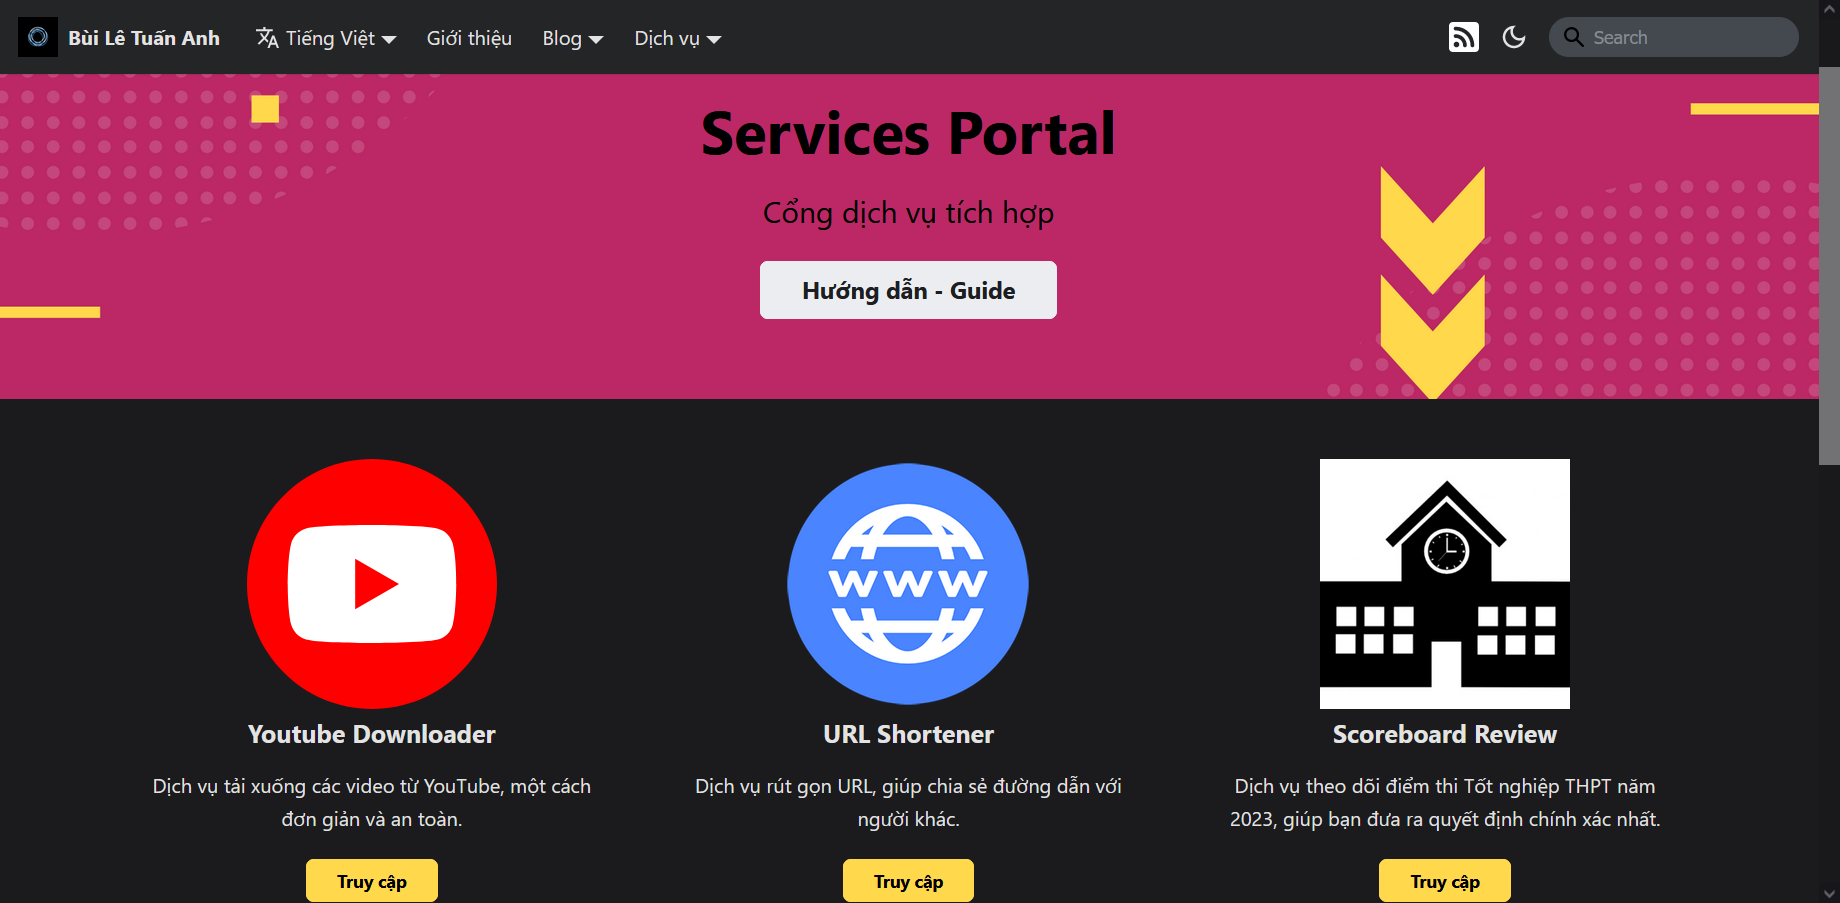
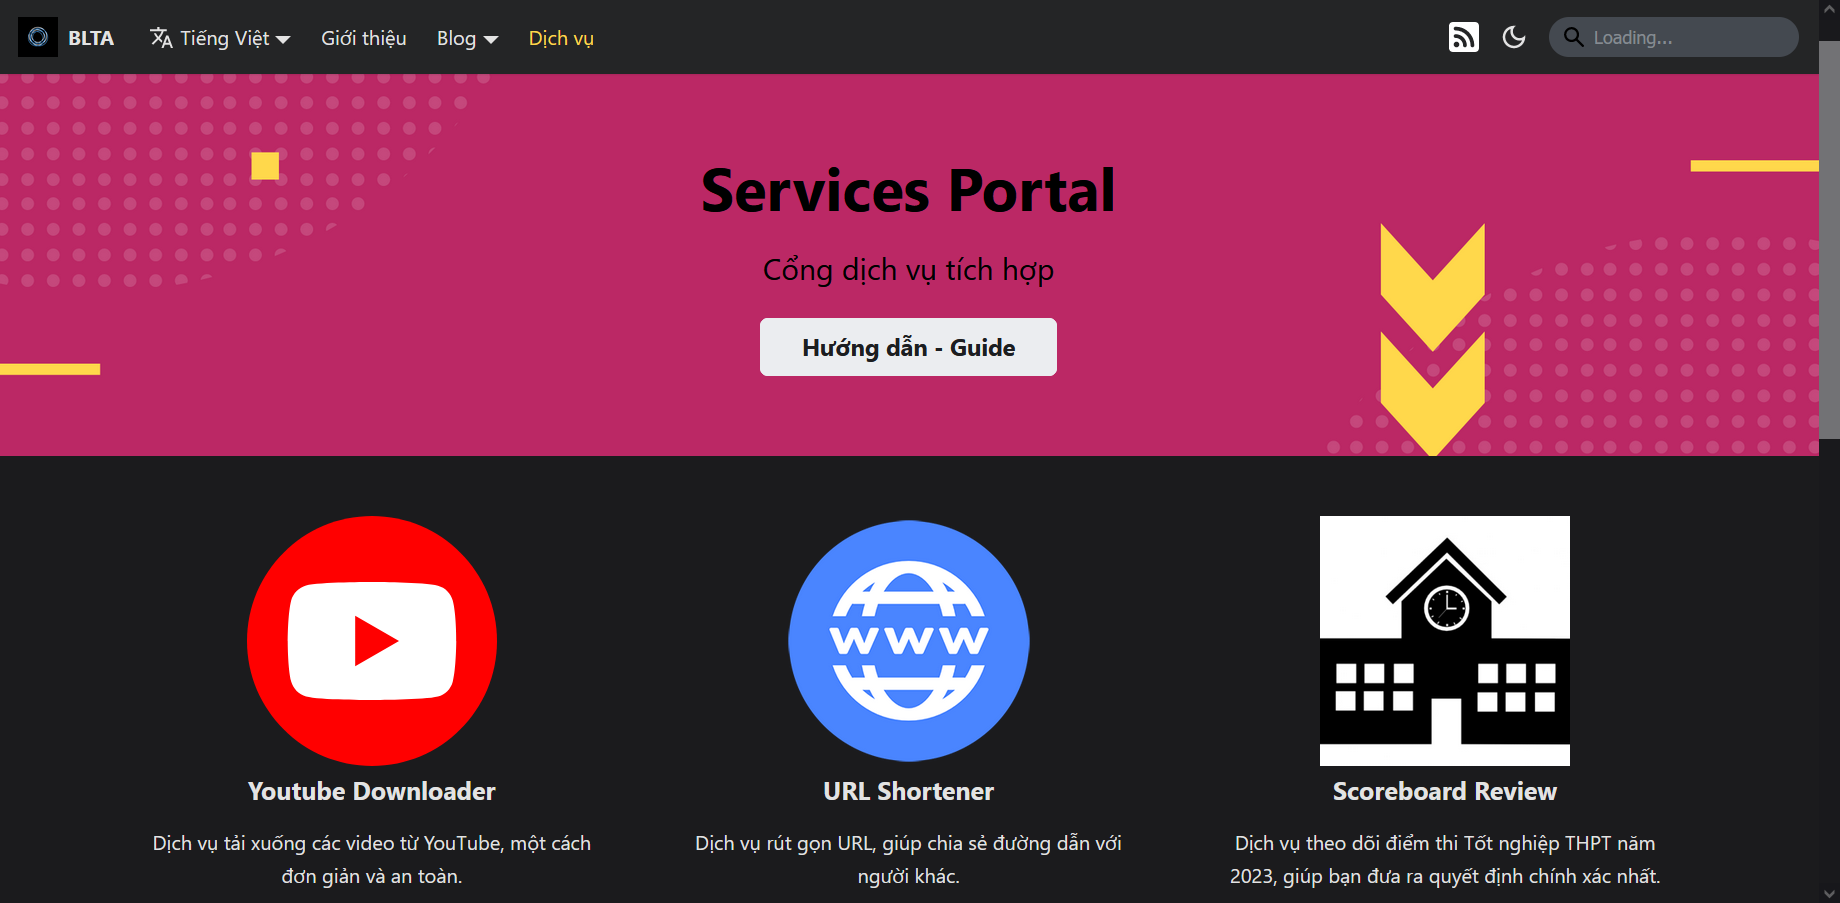
231231 - BLTAnh - Change to Status

diff --git a/client/docusaurus.config.ts b/client/docusaurus.config.ts
@@ -144,20 +144,10 @@ const config: Config = {
         {
           label: "Dịch vụ",
           position: "left",
-          type: "dropdown",
-          items: [
-            {
-              label: "Cổng dịch vụ",
-              to: "/services",
-            },
-            {
-              label: "Cổng trạng thái",
-              href: "https://status.builetuananh.name.vn/",
-            },
-          ],
+          to: "/services",
         },
         {
-          href: "https://portal.builetuananh.name.vn/blog/atom.xml",
+          href: "https://www.builetuananh.name.vn/blog/atom.xml",
           position: "right",
           className: "header-rss-link", // custom logo in custom.css
           "aria-label": "RSS",
@@ -167,7 +157,7 @@ const config: Config = {
     announcementBar: {
       id: "announcement-bar",
       content:
-        "⭐ <b>Thông báo</b>: Phiên bản mới vận hành từ 01/12/2023 (A new version will be available from Dec 1st, 2023). ⭐",
+        "⭐ <b>Thông báo</b>: Phiên bản mới vận hành từ 01/12/2023 (A new version is available from Dec 1st, 2023). ⭐",
       backgroundColor: "#a4e4dc",
       textColor: "#222",
       // backgroundColor: "#222",
@@ -196,10 +186,6 @@ const config: Config = {
             {
               label: "Cổng dịch vụ",
               to: "/services",
-            },
-            {
-              label: "Cổng trạng thái",
-              href: "https://status.builetuananh.name.vn/",
             },
           ],
         },

diff --git a/client/src/components/Services/ServicesFeatures.tsx b/client/src/components/Services/ServicesFeatures.tsx
@@ -67,14 +67,14 @@ const FeatureList: FeatureItem[] = [
         link: "/services/gallery"
     },
     {
-        title: "2048 Game",
-        image: "img/english/2048_logo.svg",
+        title: "Status Coverage",
+        image: "img/english/status.png",
         description: (
             <Translate id='services.feature6.desc'>
-                Dịch vụ chơi game 2048 trực tuyến, giúp bạn giải trí sau giờ làm việc, học tập.
+                Dịch vụ cập nhật trạng thái trực tiếp các trang web thường xuyên truy cập.
             </Translate>
         ),
-        link: "https://2048.builetuananh.name.vn/"
+        link: "https://status.builetuananh.name.vn/"
     }
 ]
 

diff --git a/client/blog/SpringStories/2024/01-01-SpringStories-2024/partials/docs/_no1.md b/client/blog/SpringStories/2024/01-01-SpringStories-2024/partials/docs/_no1.md
@@ -1,0 +1,45 @@
+## Kỳ 1: Recap 2023 - Điều nhỏ bé kỳ diệu ⏪
+
+Cuối cùng thì ngày này lại tới, một lần nữa. Hôm nay, ngày 31/12/2023, có nhiều thời gian hơn mọi ngày, tôi quyết định mở lại những tấm hình đẹp nhất và chiêm nghiệm lại một năm 2023 đầy thăng trầm của chính mình.
+
+### 4 năm, trôi qua như làn gió nhẹ của thời thanh xuân...
+
+Chắc hẳn, mọi người còn nhớ đến những giây phút mà ở đó, mình đã đưa chiếc check Tốt nghiệp đúng hạn vào trong wishlist của năm 2023. Ừ thì, **_mình đã làm được rồi_**. Chỉ tiếc là kết quả lại không thể như ý muốn của bản thân mình. Ước mơ được một lần chơi với Thách thức cũng đã lỡ hẹn... Dẫu sao đó cũng là một chuyến hành trình bất tận, với đủ những gia vị thú vị để làm nên một "**_thời thanh niên sôi nổi_**" của bản thân mình:
+
+- **Nhận một chiếc học bổng đầy ý nghĩa từ Khoa, và được trao tặng trực tiếp trong Lễ tuyên dương của Khoa** 💯.
+- **Tham gia vào loạt sự kiện cấp Đoàn - Hội, với rất nhiều những người bạn, những người đồng đội tuyệt vời** ❤.
+- **4⃣/8⃣ kỳ liên tục có điểm rèn luyện loại Xuất sắc và 3⃣/8⃣ kỳ đạt loại Giỏi, 2⃣/8⃣ kỳ liên tục có điểm học tập loại Xuất sắc. Khổ luyện bấy nhiêu năm, cũng có chút thành quả để khoe với mọi người** 😂.
+
+### Câu chuyện từ những chuyến đi...
+
+Năm qua là một năm với quá nhiều những biến động. Từ câu chuyện mất đi người bà yêu quý của mình (**_dẫn đến việc không có chỗ dựa từ ông bà_**), cho đến những chấn thương, những căn bệnh hành hạ bản thân mình từ ngày này qua tháng nọ, việc được sống và được đi thực tập, thử việc tới **_hai nơi trong cùng một năm_** này đã là một kì tích. Dẫu rằng mọi việc có thể không hoàn hảo và đi đến đích cuối cùng, nhưng ít nhất nó vẫn mang lại nhiều những trải nghiệm thú vị trên con đường mà mình đã chọn.
+
+### IELTS và câu chuyện về một chiếc check kéo dài...
+
+Cuối cùng thì kỳ thi IELTS cũng được tổ chức lại trực tiếp, và tất nhiên mình cũng mất **_gần một năm_** để chuẩn bị cho lần thi lại này. Thực ra sẽ là lời nói dối nếu tiết lộ rằng, **_số điểm của lần này làm hài lòng bản thân mình_**, nhưng ít ra, trên từng những kỹ năng mà mình tích lũy, cuối cùng nó cũng có những sự **_cải thiện rõ nét_** mà mình mong đợi. Tất nhiên, chặng đường IELTS vẫn sẽ tiếp tục trong hai năm tới, còn bây giờ vẫn là **_ôn luyện cho vững tâm_** đã 🤣.
+
+### Những chuyến du lịch đầy ý nghĩa...
+
+Thực ra, đất nước Việt Nam 🇻🇳 mình có rất nhiều những điểm đến thật đẹp, cũng như những nơi mà mình chưa từng khám phá. Ngay cả mình - một người con Tây Ninh chính hiệu, cũng chưa từng lên đỉnh **_núi Bà Đen_** cao nhất Đông Nam Bộ lần nào, **_cho đến ngày lễ Quốc khánh_**...
+
+Cả gia đình cùng nhau đi cáp treo lên đỉnh núi chơi, chắc cũng lâu lắm rồi mới có dịp được đi chơi cùng nhau như thế này. Và thật sự khi đến nơi, tất cả đều **choáng ngợp** trước vẻ đẹp của nơi mình sinh ra và lớn lên, nó quá đẹp mà rất khó để có thể dùng bất kỳ mĩ từ nào để miêu tả về nó. Năm nay sẽ lại là một năm mà du lịch tỉnh nhà sẽ lại được ưu tiên, và **_Tây Ninh - Hành trình rạng rỡ_** là chương trình khởi đầu cho sự phát triển đó...
+
+## Wishlist
+
+Để mà nói về năm 2024, chắc wishlist sẽ như thế này:
+
+✅ Tìm kiếm một công việc theo dạng Hybrid hoặc Remote toàn thời gian. Nếu không được, chắc chuyển sang Full-time nhưng ở quê nhà cho vui 😂.
+
+✅ Đi du lịch thêm nhiều điểm nữa (đặc biệt là ra nước ngoài). Đã gần 6 năm kể từ chuyến đi nước ngoài đầu tiên, đây chắc hẳn là mong muốn lớn nhất của mình.
+
+✅ Kiếm được nhiều tiền, và có thể triển khai một dự án gì đó. Thực ra thì cũng chưa biết là dự án gì, nhưng ít ra là có liên quan đến Công nghệ thông tin và Tiếng Anh - hai đối trọng mà mình cùng lúc theo đuổi.
+
+✅ Có thể đạt được một số chứng chỉ nào đó, như là AWS, Azure. À thì cái này cũng là mong ước của mình khi theo đuổi Công nghệ thông tin, theo kiểu năm chẵn thi AWS, năm lẻ thi IELTS chẳng hạn để có thể tối ưu được thời gian và lượng kiến thức cần ôn luyện.
+
+## Tổng kết
+
+Hết phần recap. Một lần nữa, chân thành cảm ơn tất cả mọi người đã giúp đỡ để tôi có thể vượt qua năm 2⃣0⃣2⃣3⃣ đầy chông gai thử thách nhưng cũng nhiều "**_điều nhỏ bé kỳ diệu_**" này. Hy vọng năm 2⃣0⃣2⃣4⃣, tất cả chúng ta sẽ có nhiều sức khỏe và thành công. Mọi thứ đã trở lại bình thường, và tất cả sẽ không ngừng phát triển hơn nữa.
+
+🏡 2⃣0⃣2⃣3⃣, một năm đầy cảm xúc đã kết thúc. Chúng ta chia tay nhau từ đây. Chào từ biệt 2⃣0⃣2⃣3⃣, và xin chào 2⃣0⃣2⃣4⃣.
+
+🌸 Câu chuyện mùa xuân 2⃣0⃣2⃣3⃣/2⃣4⃣ 🌼 - Kỳ 2⃣ sẽ lên sóng trong vài ngày nữa. Goodbye mọi người, tôi đi làm lại web tiếp đây 😂

diff --git a/client/docs/guide/status.md b/client/docs/guide/status.md
@@ -1,0 +1,47 @@
+---
+id: status
+title: Status Coverage
+slug: /guide/status
+sidebar_position: 6
+---
+
+## Giới thiệu
+
+Dịch vụ Status Coverage là một trang web tổng hợp và theo dõi trạng thái của các trang khác nhau. Trang web này được xây dựng dựa trên nền tảng [**Upptime**](https://upptime.js.org).
+
+## Hướng dẫn truy cập
+
+Để sử dụng dịch vụ, có các cách sau:
+
+1. Truy cập vào đường dẫn [**này**](https://status.builetuananh.name.vn/)
+2. Từ thanh điều hướng, chọn **Dịch vụ**
+3. Từ phần chân trang, mục **Trang chủ** chọn **Cổng dịch vụ**
+
+Chọn dịch vụ **Status Coverage**, nhấn nút **Truy cập**. Hệ thống sẽ tự chuyển hướng đến trang của dịch vụ như hình dưới.
+
+![Status Coverage](../../public/img/services/status.png)
+
+:::note LƯU Ý
+
+Giao diện ứng dụng sử dụng ngôn ngữ **tiếng Việt**.
+
+:::
+
+## Hướng dẫn theo dõi
+
+### Trạng thái hiện tại
+
+Mục này sẽ hiển thị trạng thái hiện tại của các trang web được theo dõi. Mục này cung cấp hai thông tin quan trọng là tỷ lệ phản hồi thành công (**mã trạng thái 200**) tính theo **phần trăm** và thời gian phản hồi trung bình tính theo mili giây. Trạng thái này được cập nhật liên tục, và có thể thống kê trong thời gian **24 giờ, 7 ngày, 30 ngày, 365 ngày** và cả **toàn bộ thời gian** giám sát.
+
+### Thông tin chi tiết
+
+Khi chọn vào từng trang web, sẽ hiển thị các thông tin chi tiết tương ứng, bao gồm:
+
+- Tỷ lệ phản hồi thành công (**mã trạng thái 200**) tính theo phần trăm
+- Thời gian phản hồi **trung bình** tính theo mili giây
+- Thời gian phản hồi **trong 7 ngày gần nhất**
+- Loạt **sự cố xảy ra** với trang web đó
+
+### Sự cố
+
+Đối với các sự cố đang xảy ra, hệ thống sẽ cập nhật những thông tin **mới nhất lên hệ thống**. Đối với các sự cố đã xảy ra, hệ thống sẽ lưu lại và hiển thị lên trang web ở **phía dưới mục Trạng thái hiện tại**.

diff --git a/client/i18n/en/docusaurus-plugin-content-docs/current/guide/status.md b/client/i18n/en/docusaurus-plugin-content-docs/current/guide/status.md
@@ -1,0 +1,47 @@
+---
+id: status
+title: Status Coverage
+slug: /guide/status
+sidebar_position: 6
+---
+
+## Introduction
+
+The Status Coverage service is a website that aggregates and monitors the status of different websites. This website is built on the [**Upptime**](https://upptime.js.org) platform.
+
+## Guide to access
+
+To use the service, there are the following ways:
+
+1. Access from [**this link**](https://status.builetuananh.name.vn/)
+2. From the **Navigation bar** on the top of this page, select **Services**
+3. From the **Footer** at the end of this page, in the **Homepage** section select **Services Portal**
+
+Select the **Status Coverage** service, then click on **Access**. The website will automatically be redirected to the service page as shown below.
+
+![Status Coverage](../../../../../public/img/services/status.png)
+
+:::note
+
+The application interface uses **Vietnamese** as the official language.
+
+:::
+
+## How to use
+
+### Current status
+
+This section will display the current status of the monitored websites. This section provides two important information: the success response rate (**status code 200**) in **percentage** and the average response time in **milliseconds**. This status is updated continuously, and can be aggregated over **24 hours, 7 days, 30 days, 365 days** and **All time**.
+
+### Detailed information
+
+When selecting each website, the corresponding detailed information will be displayed, including:
+
+- The success response rate (**Status Code 200**) in percentage
+- The average response time in milliseconds
+- The response time in **the last 7 days**
+- The **incidents** that occurred with that website
+
+### Incidents
+
+For ongoing incidents, the system will update the **latest information** to the system. For incidents that have occurred, the system will save and display them on the website **below the Current Status section**.

diff --git a/client/docs/guide/index.md b/client/docs/guide/index.md
@@ -8,7 +8,7 @@ slug: /guide
 Để sử dụng cổng dịch vụ, có các cách sau:
 
 1. Truy cập vào đường dẫn [**này**](../../services)
-2. Từ thanh điều hướng, chọn **Dịch vụ** ➡ **Cổng dịch vụ**
+2. Từ thanh điều hướng, chọn **Dịch vụ**
 3. Từ phần chân trang, mục **Trang chủ** chọn **Cổng dịch vụ**
 
 Màn hình sẽ hiện giao diện như hình dưới.
@@ -26,4 +26,4 @@ Hiện tại hệ thống có sáu dịch vụ khác nhau như sau:
 3. Dịch vụ **Scoreboard Review** ([xem hướng dẫn tại đây](./guide/scoreboard))
 4. Dịch vụ **English L&T** ([xem hướng dẫn tại đây](./guide/english))
 5. Dịch vụ **Images Gallery** ([xem hướng dẫn tại đây](./guide/gallery))
-6. Dịch vụ **Trò chơi 2048** ([xem hướng dẫn tại đây](./guide/games))
+6. Dịch vụ **Status Coverage** ([xem hướng dẫn tại đây](./guide/status))

diff --git a/client/i18n/en/docusaurus-plugin-content-docs/current/guide/index.md b/client/i18n/en/docusaurus-plugin-content-docs/current/guide/index.md
@@ -7,7 +7,7 @@ sidebar_position: 3
 There are several ways to access the Services Portal:
 
 1. Access from [**this link**](../../en/services)
-2. From the **Navigation bar** on the top of this page, select **Services** ➡ **Portal**
+2. From the **Navigation bar** on the top of this page, select **Services**
 3. From the **Footer** at the end of this page, in the **Homepage** section select **Services Portal**
 
 The screen will look something like this:
@@ -31,4 +31,4 @@ There are currently six different services as follows:
 3. **Scoreboard Review** ([User Guide](./guide/scoreboard))
 4. **English L&T** ([User Guide](./guide/english))
 5. **Images Gallery** ([User Guide](./guide/gallery))
-6. **2048 Game** ([User Guide](./guide/games))
+6. **Status Coverage** ([User Guide](./guide/status))

diff --git a/client/i18n/en/docusaurus-plugin-content-docs/current/guide/youtube.md b/client/i18n/en/docusaurus-plugin-content-docs/current/guide/youtube.md
@@ -14,7 +14,7 @@ The Youtube Downloader service allows users to watch and download videos on YouT
 To use the service, there are the following ways:
 
 1. Access from [**this link**](../../../en/services)
-2. From the **Navigation bar** on the top of this page, select **Services** ➡ **Portal**
+2. From the **Navigation bar** on the top of this page, select **Services**
 3. From the **Footer** at the end of this page, in the **Homepage** section select **Services Portal**
 
 Select the **Youtube Downloader** service, then click on **Access**. The website will automatically be redirected to the service page as shown below.

diff --git a/client/i18n/en/docusaurus-plugin-content-docs/current/guide/scoreboard.md b/client/i18n/en/docusaurus-plugin-content-docs/current/guide/scoreboard.md
@@ -14,7 +14,7 @@ The Scoreboard Review service allows users to update the latest information abou
 To use the service, there are the following ways:
 
 1. Access from [**this link**](../../../en/services)
-2. From the **Navigation bar** on the top of this page, select **Services** ➡ **Portal**
+2. From the **Navigation bar** on the top of this page, select **Services**
 3. From the **Footer** at the end of this page, in the **Homepage** section select **Services Portal**
 
 Select the **Scoreboard Review** service, then click on **Access**. The website will automatically be redirected to the service page as shown below.

diff --git a/client/i18n/en/docusaurus-plugin-content-docs/current/guide/gallery.md b/client/i18n/en/docusaurus-plugin-content-docs/current/guide/gallery.md
@@ -14,7 +14,7 @@ The Images Gallery service allows users to review the images uploaded from the s
 To use the service, there are the following ways:
 
 1. Access from [**this link**](../../../en/services)
-2. From the **Navigation bar** on the top of this page, select **Services** ➡ **Portal**
+2. From the **Navigation bar** on the top of this page, select **Services**
 3. From the **Footer** at the end of this page, in the **Homepage** section select **Services Portal**
 
 Select the **Images Gallery** service, then click on **Access**. The website will automatically be redirected to the service page as shown below.

diff --git a/client/i18n/en/docusaurus-plugin-content-docs/current/guide/shortener.md b/client/i18n/en/docusaurus-plugin-content-docs/current/guide/shortener.md
@@ -14,7 +14,7 @@ The URL Shortener service allows users to shorten long URLs into short ones, whi
 To use the service, there are the following ways:
 
 1. Access from [**this link**](../../../en/services)
-2. From the **Navigation bar** on the top of this page, select **Services** ➡ **Portal**
+2. From the **Navigation bar** on the top of this page, select **Services**
 3. From the **Footer** at the end of this page, in the **Homepage** section select **Services Portal**
 
 Select the **URL Shortener** service, then click on **Access**. The website will automatically be redirected to the service page as shown below.

diff --git a/client/i18n/en/docusaurus-plugin-content-docs/current/guide/english.md b/client/i18n/en/docusaurus-plugin-content-docs/current/guide/english.md
@@ -14,7 +14,7 @@ The English L&T service allows users to track their English learning progress th
 To use the service, there are the following ways:
 
 1. Access from [**this link**](../../../en/services)
-2. From the **Navigation bar** on the top of this page, select **Services** ➡ **Portal**
+2. From the **Navigation bar** on the top of this page, select **Services**
 3. From the **Footer** at the end of this page, in the **Homepage** section select **Services Portal**
 
 Select the **English L&T** service, then click on **Access**. The website will automatically be redirected to the service page as shown below.
